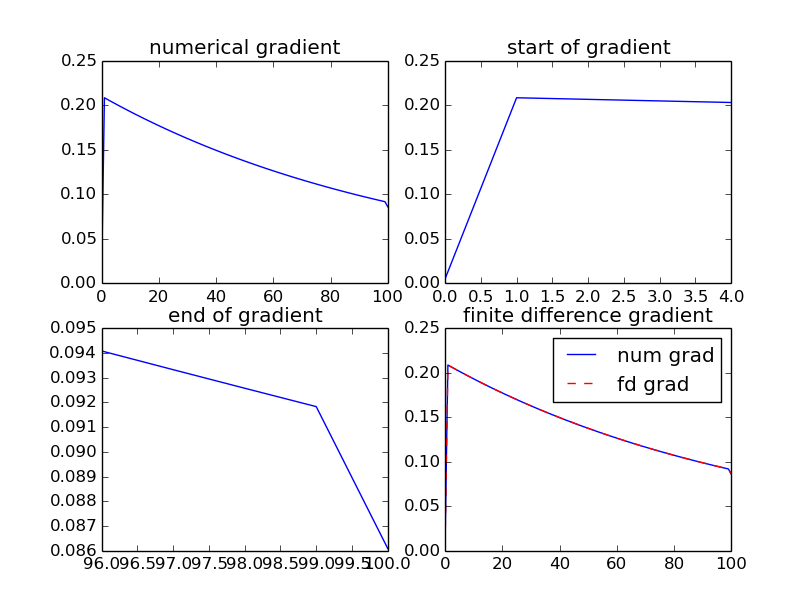
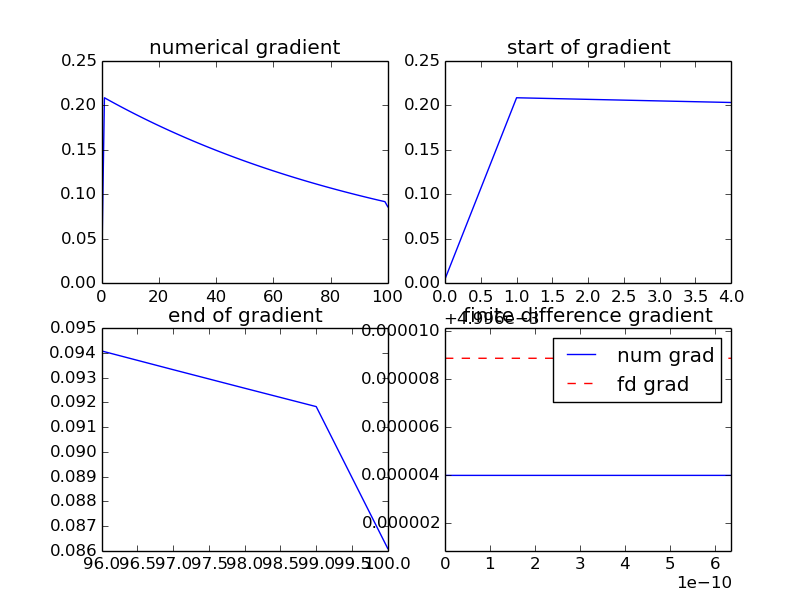
tried quad

diff --git a/adjoint/taylorTest.py b/adjoint/taylorTest.py
@@ -10,6 +10,7 @@ from scipy.integrate import trapz
 from scipy.optimize import minimize
 from optimalContolProblem import OptimalControlProblem,Problem1
 from scipy import linalg
+from non_linear import Explicit_quadratic
 
 from mpi4py import MPI
 from mpiVectorOCP import MpiVectorOCP,simpleMpiVectorOCP,generate_problem,local_u_size
@@ -56,6 +57,29 @@ def lin_problem(y0,yT,T,a):
     problem2 = Problem1(y0,yT,T,a,J,grad_J)
     return problem2,problem1
 
+def quadratic_state(y0,yT,T,a):
+    
+    
+    
+    def J(u,y,yT,T):
+        t = np.linspace(0,T,len(u))
+
+        I = trapz((u)**2,t)
+
+        return 0.5*I + 0.5*(y-yT)**2
+
+    def grad_J(u,p,dt):
+        t = np.linspace(0,T,len(u))
+        grad = np.zeros(len(u))
+        grad[:-1] = dt*(u[:-1]+p[:-1])
+        grad[0] = 0.5*dt*(u[0])+dt*p[0] 
+        grad[-1] = 0.5*dt*(u[-1]) 
+        return grad
+        
+
+    problem = Explicit_quadratic(y0,yT,T,a,J,grad_J)
+
+    return problem
 
 def taylor_test_non_penalty():
 
@@ -478,12 +502,90 @@ def taylor_test_mpi():
         print data
 
 
+def taylor_quadratic_state():
+
+    y0 = 3.2
+    yT = 1.5
+    T  = 1
+    a  = 10.9
+    p = 2
+    c =0.5
+
+    problem = quadratic_state(y0,yT,T,a)
+    #problem = non_lin_problem(y0,yT,T,a,p,c=c)
+    N = 100
+    dt = float(T)/(N)
+    
+    h = 100*np.random.random(N+1)
+    
+    
+
+    J = lambda u: problem.Functional(u,N)
+    u = np.zeros(N+1) 
+    for i in range(8):
+
+        print J(u+h/(10**i))-J(u)
+
+
+    def grad_J(x):
+        l = problem.adjoint_solver(x,N)
+        return problem.grad_J(x,l,dt)
+    
+    print
+    table = {'J(u+v)-J(u)':[],'J(u+v)-J(u)-dJ(u)v':[],'rate1':['--'],
+             'rate2':['--'],'e v':[]}
+    eps_list = []
+    for i in range(8):
+        eps = 1./(10**i)
+        grad_val = abs(J(u+h*eps) - J(u) - eps*h.dot(grad_J(u)))
+        func_val = J(u+h*(eps))-J(u)
+        eps_list.append(eps)
+        table['J(u+v)-J(u)'].append(func_val)
+        table['J(u+v)-J(u)-dJ(u)v'].append(grad_val)
+        table['e v'].append(eps*max(h))
+        if i!=0:
+            table['rate1'].append(np.log(abs(table['J(u+v)-J(u)'][i-1]/table['J(u+v)-J(u)'][i]))/np.log(10))
+            table['rate2'].append(np.log(abs(table['J(u+v)-J(u)-dJ(u)v'][i-1]/table['J(u+v)-J(u)-dJ(u)v'][i]))/np.log(10))
+    print
+    
+    for i in range(10):
+        eps = 1./(2**i)
+        grad_fd = finite_diff(J,u,eps)
+        grad = grad_J(u)
+        #print max(abs(grad_fd[:]-grad[:]))
+    
+    data2 = pd.DataFrame(table,index=eps_list)
+    #data2.to_latex('report/draft/discertizedProblem/taylorTest1.tex')
+    
+    print data2
+    """
+    Q = np.vstack([np.log(np.array(eps_list)),np.ones(len(eps_list))]).T
+    LS_F=linalg.lstsq(Q, np.log(np.array(table['J(u+v)-J(u)'])))[0]
+    LS_grad = linalg.lstsq(Q, np.log(np.array(table['J(u+v)-J(u)-dJ(u)v'])))[0]
+    print LS_F[0],np.exp(LS_F[1])
+    print LS_grad[0],np.exp(LS_grad[1])
+    """
+    import matplotlib.pyplot as plt
+
+
+    
+
+    #grad2 = grad_J2(u)
+    plt.plot(grad)
+    plt.plot(grad_fd,'r--')
+    #plt.plot(grad2)
+    plt.legend(['num grad','finite diff grad'])
+    plt.xlabel('gradient index')
+    plt.ylabel('gradient value')
+    plt.show()
+
 if __name__ == '__main__':
     #taylor_test_non_penalty()
-    taylor_penalty_test()
+    #taylor_penalty_test()
     #quad_end()
     #runge_kutta_test()
     #taylor_test_mpi()
+    taylor_quadratic_state()
 """
 J(u+eh) = J(u) + O(e)
 

diff --git a/adjoint/report/draft/draft2/Chapters/literature.tex b/adjoint/report/draft/draft2/Chapters/literature.tex
@@ -28,4 +28,4 @@ In the paper \cite{maday2002parareal}, Maday and Turinici reinterpret the Parare
 In the same way as for time dependent differential equations, we introduce parallelism to the above problem by decomposing the time interval. To enforce continuity in the state $y$, we add jumps in the solution of the state equation as penalties into the objective function $J$. The initial conditions at each decomposed subinterval then become variables in $J$, and it is these variables that the Parareal preconditioner effects. The preconditioner for the optimal control problem can also be used as a modified Parareal algorithm, that is stable for hyperbolic equation \cite{chen2015adjoint},
 \\
 \\
-In \cite{rao2016time} the authors use the Parareal preconditioner approach for time-parallel 4d variational data assimilation, but enforce the state equation continuity with the augmented Lagrangian method, which is a modification of the penalty method\cite{nocedal2006numerical}. As mentioned the Parareal preconditioner presented in \cite{maday2002parareal} only affects the penalty terms. A more advanced preconditioner is derived in \cite{ulbrich2015preconditioners}, where the Parareal preconditioner is incorporated into a preconditioner for a control problem with time-dependent partiel differential equation constraints and inequality constraints.
+In \cite{rao2016time} the authors use the Parareal preconditioner approach for time-parallel 4d variational data assimilation, but enforce the state equation continuity with the augmented Lagrangian method, which is a modification of the penalty method\cite{nocedal2006numerical}. As mentioned the Parareal preconditioner presented in \cite{maday2002parareal} only affects the penalty terms. A more advanced preconditioner is derived in \cite{ulbrich2015preconditioners}, where the Parareal preconditioner is incorporated into a preconditioner for a control problem with time-dependent partial differential equation constraints and inequality constraints.

diff --git a/adjoint/optimalContolProblem.py b/adjoint/optimalContolProblem.py
@@ -16,7 +16,7 @@ class OptimalControlProblem():
     E(y(t),u(t)) = 0
     """
 
-    def __init__(self,y0,yT,T,J,grad_J,Lbfgs_options=None,options=None):
+    def __init__(self,y0,yT,T,J,grad_J,Lbfgs_options=None,options=None,implicit=True):
         """
         Initialize OptimalControlProblem
 
@@ -57,6 +57,10 @@ class OptimalControlProblem():
 
         self.end_end_adjoint = None
         self.end_start_adjoint = None
+        if implicit:
+            self.serial_gather = self.implicit_gather
+        else:
+            self.serial_gather = self.explicit_gather
 
     def set_options(self,user_options,user_Lbfgs):
         """
@@ -314,7 +318,7 @@ class OptimalControlProblem():
             for j in range(len(l[i])-1):
                 l[i][-(j+2)] = self.adjoint_update(l[i],y[i],j,dt)
             
-        L=np.zeros(N+1)
+        L=self.serial_gather(l,N,m)#np.zeros(N+1)
         #"""
         start=0
         for i in range(m):
@@ -331,6 +335,26 @@ class OptimalControlProblem():
         #"""
         return l,L
 
+    def implicit_gather(self,l,N,m):
+        L=np.zeros(N+1)
+        #"""
+        start=0
+        for i in range(m):
+            L[start:start+len(l[i])-1] = l[i][:-1]
+            start = start + len(l[i])-1
+        L[-1]=l[-1][-1]
+        return L
+
+    def explicit_gather(self,l,N,m):
+        L=np.zeros(N+1)
+        L[0] = l[0][0]
+        start = 1
+        for i in range(m):
+            L[start:start+len(l[i])-1] = l[i][1:]
+            start += len(l[i])-1
+        return L
+
+    
     def Lagrange_Penalty_Functional(self,u,N,m,my,G):
         """
         Add penalty terms and lagrangian terms to the functional, for

diff --git a/adjoint/non_linear.py b/adjoint/non_linear.py
@@ -7,7 +7,7 @@ from scipy.integrate import trapz
 
 class Explicit_quadratic(OptimalControlProblem):
 
-    def __init__(self,y0,yT,T,a,J,grad_J,options=None):
+    def __init__(self,y0,yT,T,a,J,grad_J,options=None,implicit=False):
 
         OptimalControlProblem.__init__(self,y0,yT,T,J,grad_J,options)
 
@@ -25,7 +25,7 @@ class Explicit_quadratic(OptimalControlProblem):
     def adjoint_update(self,l,y,i,dt):
         a = self.a
         #return (1+dt*a)*l[-(i+1)]
-
+        #return (1-dt*a)*l[-(i+1)]
         return (1-a*2*dt*y[-(i+1)])*l[-(i+1)]
 
 
